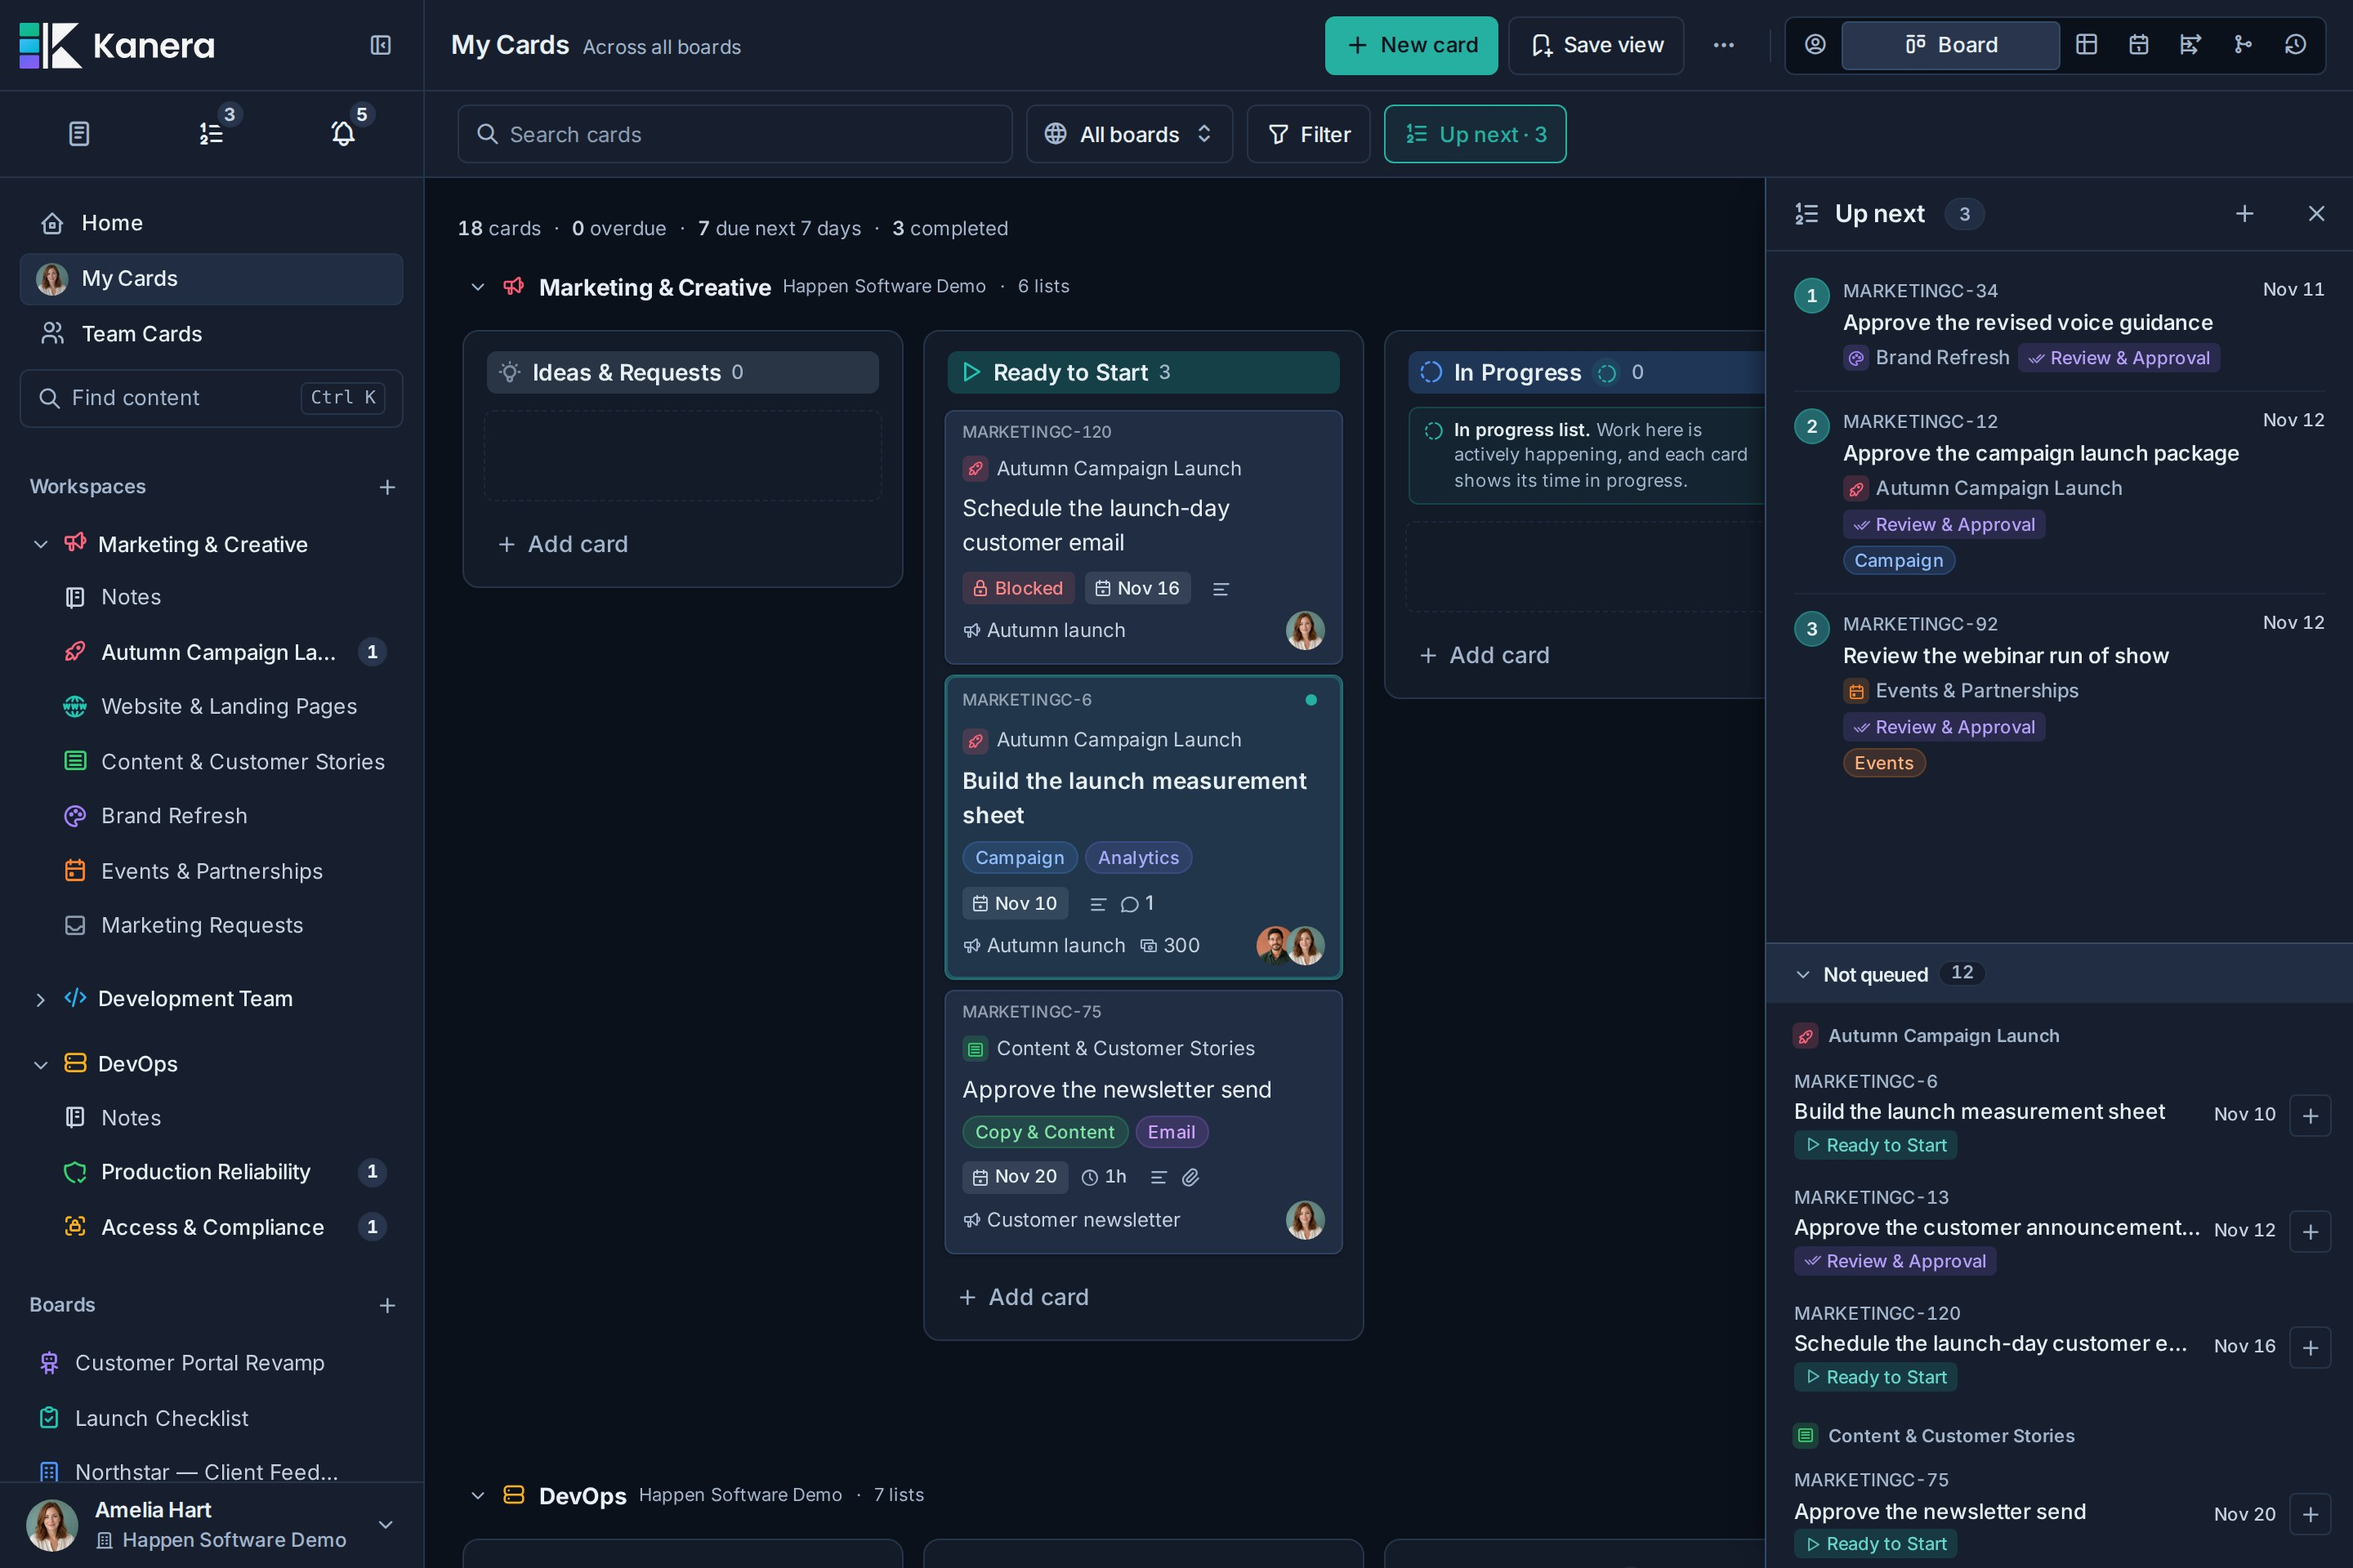
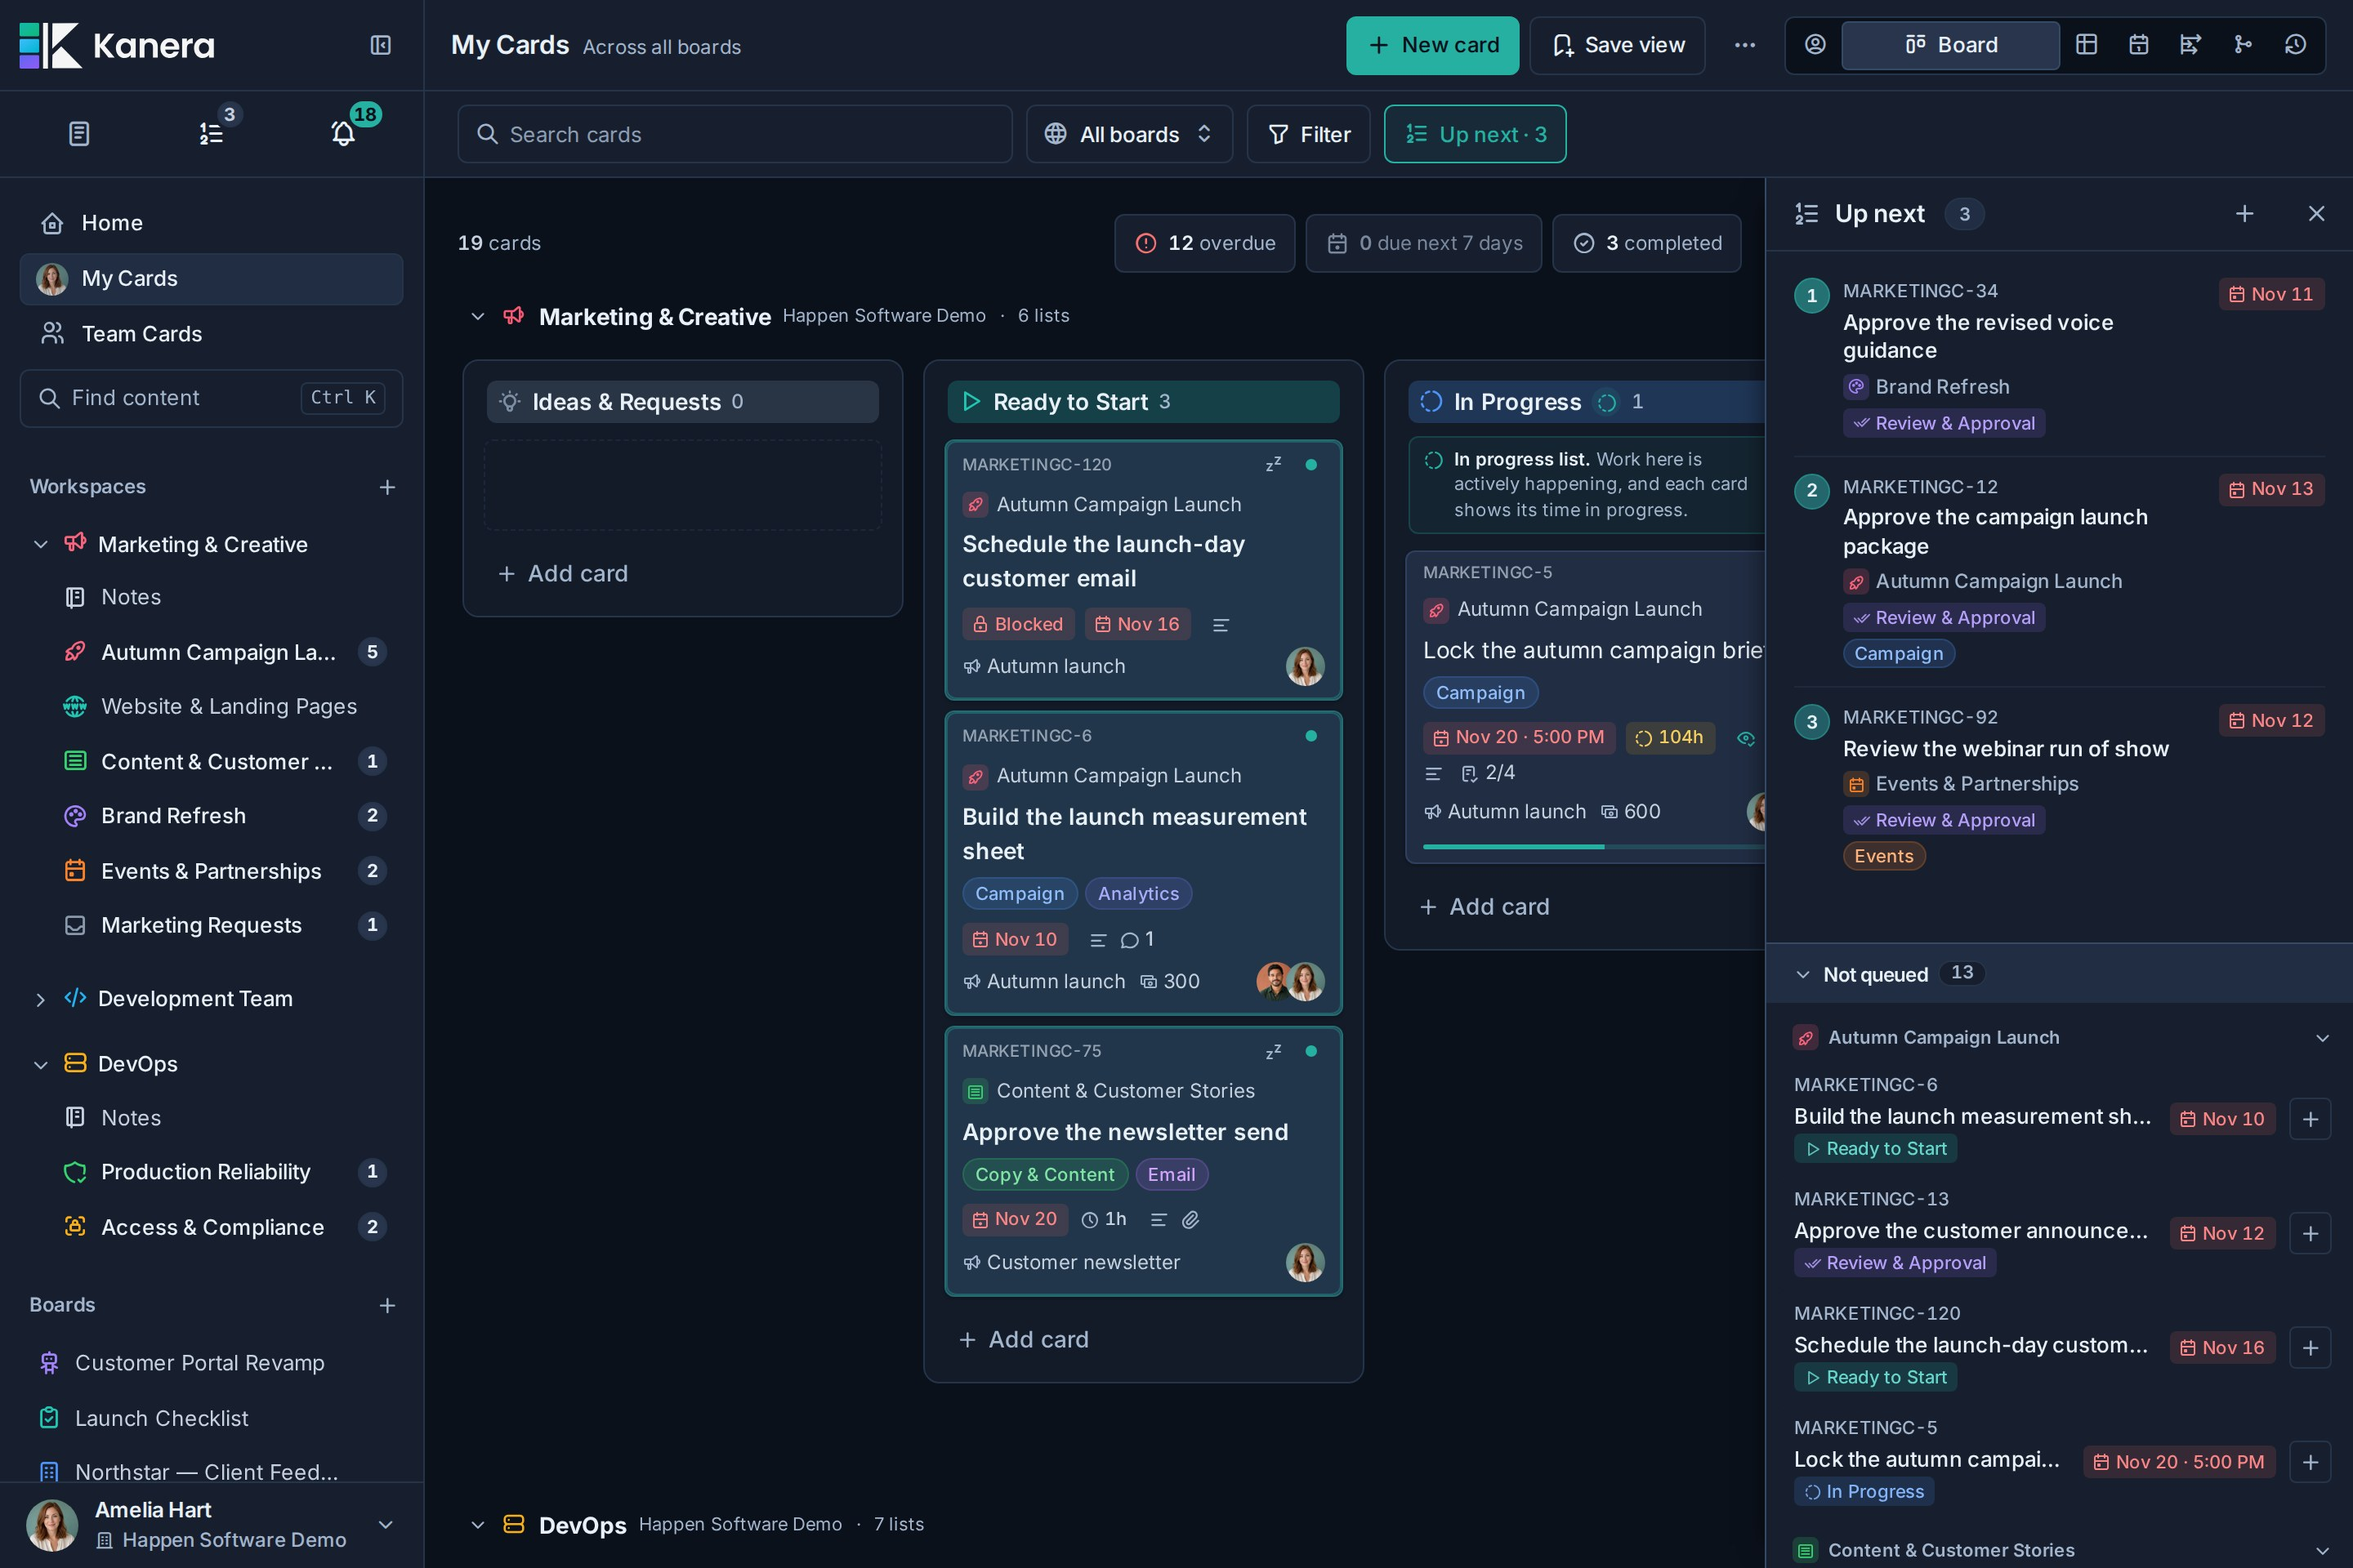
update readme

diff --git a/apps/api/src/scripts/seed-data.ts b/apps/api/src/scripts/seed-data.ts
@@ -176,6 +176,8 @@ type SeedChecklistItem = {
   dueDateSlot?: CardDueDateSlot;
   completedBy?: SeedUserKey;
   completedOffsetHours?: number;
+  /** Inline sub-items, stored as a sub-checklist whose parent is this item. */
+  subChecklist?: { title: string; items: { text: string; completedBy?: SeedUserKey }[] };
 };
 
 type SeedChecklist = {
@@ -1583,6 +1585,9 @@ function buildMarketingWorkspace(reference: Date): SeedWorkspace {
         {
           title: "Design the autumn campaign graphics",
           assignee: "nina",
+          // The README and site card-detail captures use this card, so it carries every section:
+          // a co-owner, item owners and dates, inline sub-items and a second checklist.
+          additionalAssignees: ["zoe"],
           description: [
             "Finish the warm editorial route: landing hero, email header, social crops, and partner lockup.",
             "Keep product UI out of the artwork; Leo is supplying screenshots as separate campaign assets.",
@@ -1591,11 +1596,33 @@ function buildMarketingWorkspace(reference: Date): SeedWorkspace {
           attachments: [{ asset: "campaignReviewCover", uploadedBy: "nina", useAsCover: true }],
           checklists: [{
             title: "Required exports",
+            preserveCompletions: true,
             items: [
-              { text: "Landing-page hero at desktop and mobile sizes", completedBy: "nina", completedOffsetHours: 10 },
-              { text: "Email header with dark-mode check" },
-              { text: "Three social crops with safe areas" },
+              {
+                text: "Landing-page hero at desktop and mobile sizes",
+                assignee: "nina",
+                dueOffsetDays: 1,
+                // Matches the site's checklist-item capture fixture, which reuses these rows.
+                subChecklist: {
+                  title: "Final checks",
+                  items: [
+                    { text: "Confirm the desktop crop and export size", completedBy: "nina" },
+                    { text: "Check mobile safe areas and text contrast", completedBy: "nina" },
+                    { text: "Attach the approved exports to the card" },
+                  ],
+                },
+              },
+              { text: "Email header with dark-mode check", completedBy: "nina", completedOffsetHours: 10 },
+              { text: "Three social crops with safe areas", assignee: "zoe", dueOffsetDays: 2 },
               { text: "Partner lockup without the launch date" },
+            ],
+          }, {
+            title: "Review handoff",
+            preserveCompletions: true,
+            items: [
+              { text: "Share concept two with Zoe for headline fit", completedBy: "nina", completedOffsetHours: 8 },
+              { text: "Split the paper texture into its own layer", completedBy: "nina", completedOffsetHours: 19 },
+              { text: "Send the final review set to Amelia" },
             ],
           }],
           comments: [
@@ -6296,6 +6323,33 @@ export async function seedDatabase(options: SeedDatabaseOptions = {}): Promise<S
                   }),
                 ).returning();
                 summary.checklistItems += checklistSeed.items.length;
+
+                for (const [itemIndex, itemRow] of checklistItems.entries()) {
+                  const subSeed = seededItems[itemIndex]!.subChecklist;
+                  if (!subSeed) continue;
+                  const [subChecklist] = await tx.insert(cardChecklists).values({
+                    cardId: card!.id,
+                    parentItemId: itemRow.id,
+                    title: subSeed.title,
+                    position: positionForIndex(0),
+                    createdAt: checklistCreatedAt,
+                    updatedAt: checklistCreatedAt,
+                  }).returning();
+                  summary.checklists += 1;
+                  await tx.insert(cardChecklistItems).values(subSeed.items.map((subItem, subIndex) => {
+                    const subCompletedAt = subItem.completedBy ? addHours(cardCreatedAt, subIndex + 3) : null;
+                    return {
+                      checklistId: subChecklist!.id,
+                      text: subItem.text,
+                      position: positionForIndex(subIndex),
+                      completedAt: subCompletedAt,
+                      completedById: subItem.completedBy ? userIdByKey.get(subItem.completedBy)! : null,
+                      createdAt: checklistCreatedAt,
+                      updatedAt: subCompletedAt ?? checklistCreatedAt,
+                    };
+                  }));
+                  summary.checklistItems += subSeed.items.length;
+                }
 
                 // Checklist overdue notifications are standing attention items rather than feed
                 // activity. Seed them directly so My Cards and the inbox both open populated.

diff --git a/apps/web/src/app/features/board/description-editor.component.ts b/apps/web/src/app/features/board/description-editor.component.ts
@@ -22,7 +22,7 @@ import Image from "@tiptap/extension-image";
 import { Paragraph } from "@tiptap/extension-paragraph";
 import Placeholder from "@tiptap/extension-placeholder";
 import { Fragment, Slice, type Node as ProseMirrorNode } from "@tiptap/pm/model";
-import { TextSelection } from "@tiptap/pm/state";
+import { Selection, TextSelection } from "@tiptap/pm/state";
 import type { EditorView } from "@tiptap/pm/view";
 import { Table } from "@tiptap/extension-table";
 import { TableCell } from "@tiptap/extension-table-cell";
@@ -1253,12 +1253,8 @@ export class DescriptionEditorComponent implements AfterViewInit, OnDestroy {
       // real parser errors without enabling that incompatible false-positive.
       emitContentError: true,
       editable: this.editable() && !this.saving(),
-      // Focus through `focusEnd` on create instead of Tiptap's `"end"`, so a draft ending in a quote
-      // (a comment reply) puts the caret below the quote rather than inside it.
+      // Set the initial caret ourselves so a reply can start below a trailing quote.
       autofocus: false,
-      onCreate: () => {
-        if (this.autofocus()) this.focusEnd();
-      },
       onContentError: ({ editor, error }) => {
         if (isMarkdownTableWrapperFalsePositive(error)) return;
         // Invalid inserted content is rejected before dispatch. Re-assert the
@@ -1307,6 +1303,10 @@ export class DescriptionEditorComponent implements AfterViewInit, OnDestroy {
     shell.addEventListener("drop", this.handleDrop, { capture: true });
     window.addEventListener("resize", this.handleViewportChange);
     window.addEventListener("scroll", this.handleViewportChange, true);
+
+    // Tiptap's create callback runs after the editor is editable. Set the initial selection now
+    // so a delayed autofocus cannot overwrite an early selection made by the user.
+    if (this.autofocus()) this.focusEnd();
   }
 
   ngOnDestroy() {
@@ -2072,7 +2072,10 @@ export class DescriptionEditorComponent implements AfterViewInit, OnDestroy {
     if (doc.lastChild?.type.name === "blockquote") {
       chain.insertContentAt(doc.content.size, { type: "paragraph" });
     }
-    chain.focus("end").run();
+    chain.command(({ tr }) => {
+      tr.setSelection(Selection.atEnd(tr.doc));
+      return true;
+    }).scrollIntoView().run();
   }
 
   setSaving(v: boolean) {

diff --git a/e2e/editor-recovery-audit.spec.ts b/e2e/editor-recovery-audit.spec.ts
@@ -154,7 +154,9 @@ for (const surface of surfaces) {
     const subject = await setup(api, surface, testWorkspace.boardId, testWorkspace.lists.get("Backlog")!);
     await signIn(page, "amelia", subject.url);
     const text = `Unsaved ${surface} work before going away`;
-    await (await startEditing(page, subject)).fill(text);
+    const initialEditor = await startEditing(page, subject);
+    await initialEditor.fill(text);
+    await expect(initialEditor).toHaveText(text);
     let failedRead = false;
     await page.route(`**${subject.read}*`, async (route) => {
       if (failedRead || route.request().method() !== "GET") return route.continue();

diff --git a/README.md b/README.md
@@ -21,6 +21,8 @@ Kanban, Table, Calendar, Timeline, and dependency views over one set of cards. M
 
 ![Kanera Autumn Campaign Launch board showing cards organised into shared lists](docs/readme-assets/board.jpg?v=20261105refresh2)
 
+![Kanera card detail showing owners, dates, labels, custom fields, checklists with sub-items and owners, and comments](docs/readme-assets/card-detail.jpg?v=20261126checklists1)
+
 ## Why Kanera
 
 - **Agents work on your board, not in a side chat.** Claude, Codex, Cursor, and other agents pick up cards over MCP or the `kanera` CLI. A live chip shows each run on its card, turns amber when the agent needs you, and every change is attributed **via Claude** or **via Codex**.
@@ -162,7 +164,7 @@ Press `?` to open a shortcut sheet that reflects the current screen. Use two-key
 
 Build one ranked queue from cards assigned to you across every accessible board. Reorder it as priorities change, keep source boards and due dates visible, and see the same order on Home, My Cards, board cards, and Table.
 
-![Kanera My Cards showing a ranked Up next queue beside assigned work](docs/readme-assets/my-cards-up-next.jpg?v=20261105refresh2)
+![Kanera My Cards showing a ranked Up next queue beside assigned work](docs/readme-assets/my-cards-up-next.jpg?v=20261126checklists1)
 
 
 
@@ -190,11 +192,11 @@ Connect cards with **Blocks**, **Blocked by**, or **Relates to** relationships, 
 
 Open **Dependencies** on a board, in **My Cards**, or in **Team Cards**. Follow the chain in **Map**, compare due weeks in **Timeline**, or read a numbered **Steps** list that adapts to your phone. On a workspace board, switch between the board's chains and the wider workspace while keeping each card's source and permissions intact.
 
-![Kanera Dependencies Map showing connected prerequisites, blocked cards, owners, and filters for Blocked, At risk, Start here, and Ready](docs/readme-assets/dependency-map.jpg?v=20261111views1)
+![Kanera Dependencies Map showing connected prerequisites, blocked cards, owners, and filters for Blocked, At risk, Start here, and Ready](docs/readme-assets/dependency-map.jpg?v=20261126checklists1)
 
 Find **Blocked**, **At risk**, **Start here**, and **Ready** work without losing the chain around it. The biggest bottleneck points to the card holding up the most open work; **Critical path** highlights the longest routes by number of open cards. Timeline aligns every chain to shared due-week columns and marks prerequisites due after their dependents in amber.
 
-![Kanera Dependencies Timeline aligning connected cards by due week and marking scheduling risks in amber](docs/readme-assets/dependency-timeline.jpg?v=20261111views1)
+![Kanera Dependencies Timeline aligning connected cards by due week and marking scheduling risks in amber](docs/readme-assets/dependency-timeline.jpg?v=20261126checklists1)
 
 In Map or Timeline, drag from a card's **+** handle to add a blocking link, or select a connector to remove it. Tap-to-link and keyboard controls work too, with **Undo** and **Redo** for your map edits. Changes update live, and agents can inspect the same chains through MCP, the CLI, SDK, or REST API.
 
@@ -242,13 +244,13 @@ Then decide where each notification type reaches you: email, browser push, ntfy,
 
 Descriptions, custom fields, checklists, due dates, comments, attachments, and activity all live in one focused card view.
 
-![Kanera card detail showing custom fields, an assignable checklist, comments, and activity](docs/readme-assets/card-detail.jpg?v=20261105refresh2)
+![Kanera card detail showing owners, dates, labels, custom fields, checklists with sub-items and owners, and comments](docs/readme-assets/card-detail.jpg?v=20261126checklists1)
 
 ### Team Cards brings assigned work together across boards
 
 See the whole visible team or focus on one teammate without losing each card's board, list, fields, or permissions. Switch between Board, Team overview, Table, Calendar, Dependencies, and Work Done views to review ownership, workload, and execution order across projects.
 
-![Kanera Team Cards focused on Ben Ortega with his ranked Up next queue beside assigned work across accessible boards](docs/readme-assets/team-cards.jpg?v=20261105refresh2)
+![Kanera Team Cards focused on Ben Ortega with his ranked Up next queue beside assigned work across accessible boards](docs/readme-assets/team-cards.jpg?v=20261126checklists1)
 
 ### Automations keep routine work moving
 
